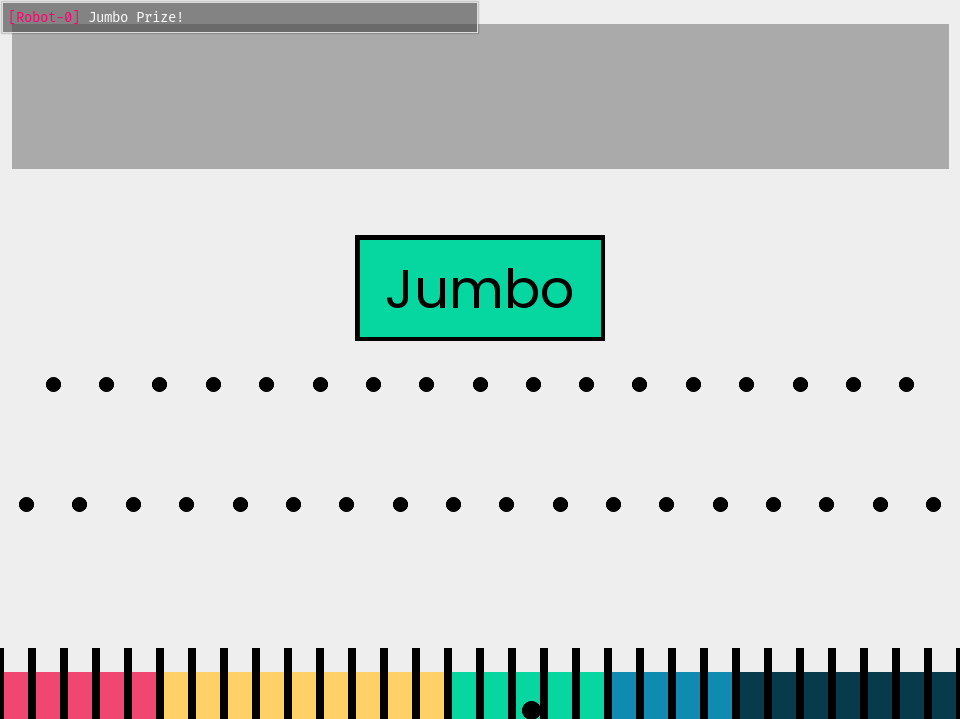
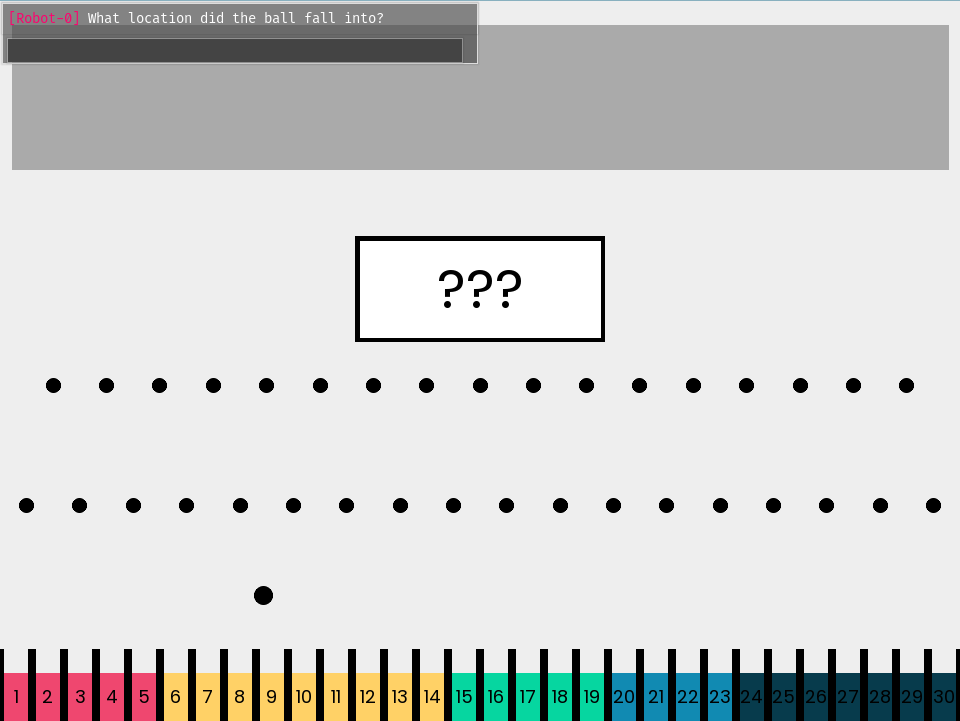
Update previews and slight bugs.

diff --git a/Social Distancing/preset/preset.py b/Social Distancing/preset/preset.py
@@ -16,8 +16,7 @@ class MovementInteractor(PygameGuiInteractor):
         self.spawnPosition()
 
     def setBotPos(self):
-        half_alien_width = self.alien.visual.verts[0][0]
-        self.robot.body.position = [self.alien.position[0] - half_alien_width - 60 + 55 * random.random(), 0]
+        self.robot.body.position = [self.alien.position[0] - 60 + 45 * random.random(), 0]
         self.robot.position = self.robot.body.position
         self.robot.body.angle = 0
         self.robot.rotation = self.robot.body.angle
@@ -25,8 +24,7 @@ class MovementInteractor(PygameGuiInteractor):
     def spawnPosition(self):
         self.alien.body.position = [50 * random.random(), 0]
         self.alien.position = self.alien.body.position
-        half_alien_width = self.alien.visual.verts[0][0]
-        self.distance_rect.position = [self.alien.position[0] - half_alien_width - 20, 0]
+        self.distance_rect.position = [self.alien.position[0] - 35, 0]
 
         self.setBotPos()
         self.restartBots()

diff --git a/Pachinko/preset/preset.py b/Pachinko/preset/preset.py
@@ -64,13 +64,13 @@ class PachinkoInteractor(PygameGuiInteractor):
                 num = visualFactory(
                     **{
                         "name": "Text",
-                        "text": "",
+                        "text": str(y+1),
                         "font_style": "fonts/Poppins-Regular.ttf",
-                        "fill": "text_color",
-                        "font_size": 72,
+                        "fill": "#000000",
+                        "font_size": 24,
                         "position": [
                             200 * (y + 0.5) / self.N_POINTS - 100,
-                            -30,
+                            -70,
                         ],
                         "hAlignment": "m",
                         "vAlignment": "m",
